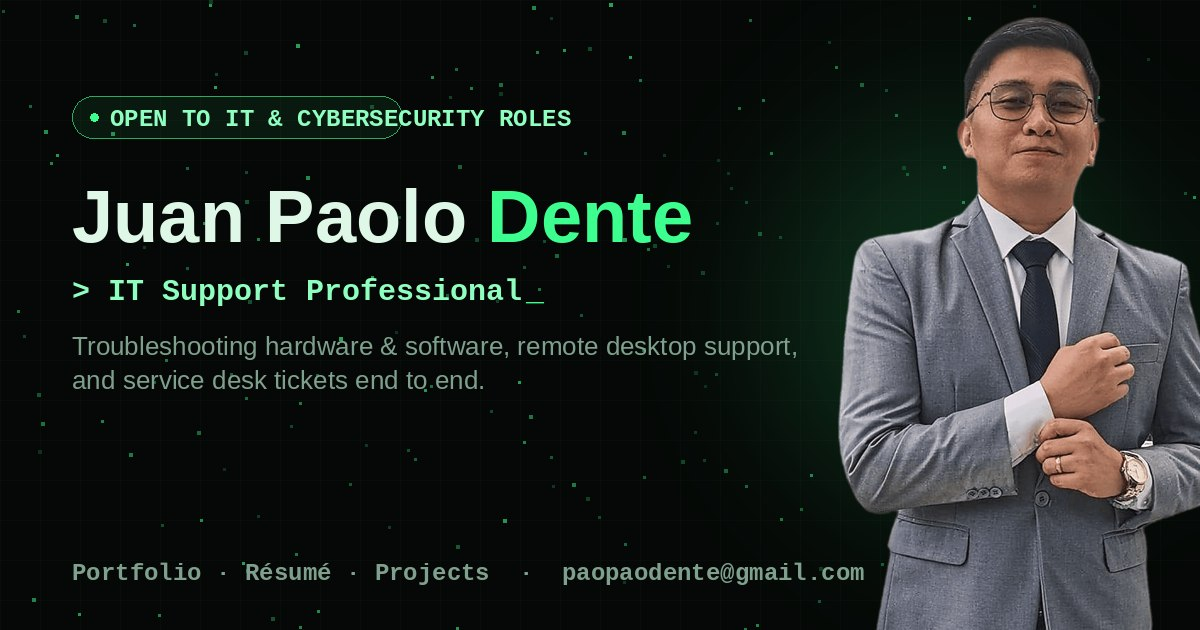
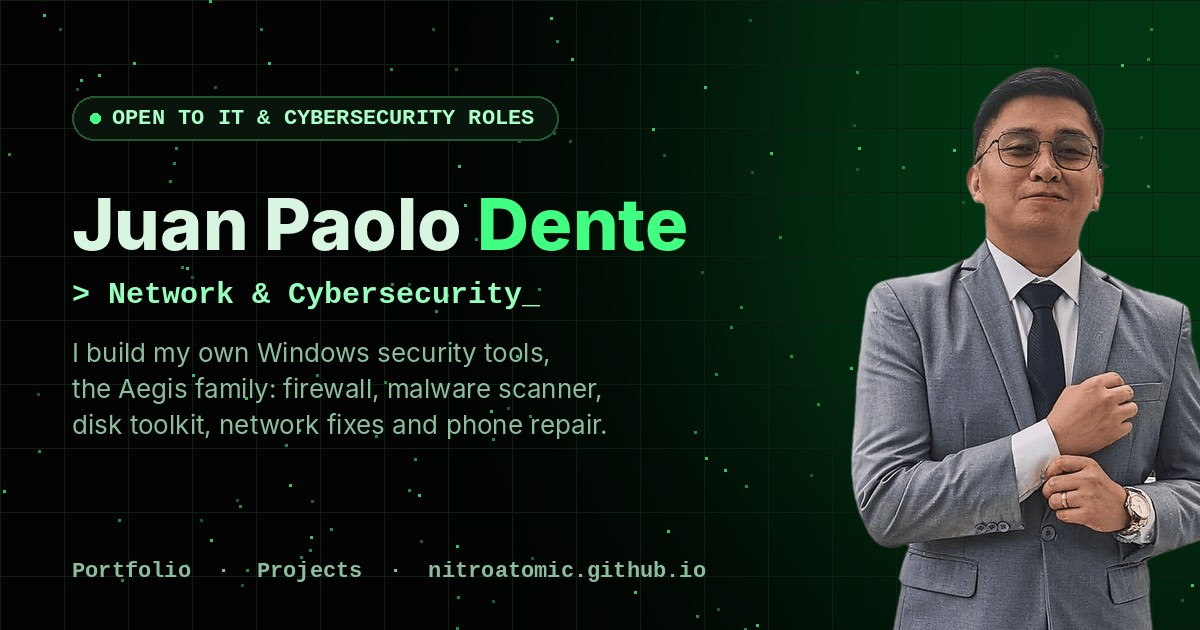
Remove AccPH, update share image, descriptions and README

diff --git a/index.html b/index.html
@@ -4,14 +4,14 @@
 <meta charset="utf-8">
 <meta name="viewport" content="width=device-width, initial-scale=1">
 <title>Juan Paolo Dente | IT Support, Networking &amp; Cybersecurity</title>
-<meta name="description" content="IT support professional specializing in troubleshooting, service desk operations and network security. BSIT (Network &amp; Cybersecurity) student at Mapúa Malayan Digital College.">
+<meta name="description" content="IT support professional moving into cybersecurity. I build my own Windows security tools, the Aegis family. BSIT (Network &amp; Cybersecurity) student at Mapúa Malayan Digital College.">
 <link rel="icon" href="assets/favicon.png">
 <link rel="canonical" href="https://nitroatomic.github.io/">
 
 <meta property="og:type" content="profile">
 <meta property="og:url" content="https://nitroatomic.github.io/">
 <meta property="og:title" content="Juan Paolo Dente | IT Support, Networking & Cybersecurity">
-<meta property="og:description" content="IT support professional specializing in troubleshooting, service desk operations and network security. BSIT (Network & Cybersecurity) student at Mapúa Malayan Digital College.">
+<meta property="og:description" content="IT support professional moving into cybersecurity. I build my own Windows security tools, the Aegis family. BSIT (Network & Cybersecurity) student at Mapúa Malayan Digital College.">
 <meta property="og:image" content="https://nitroatomic.github.io/assets/og-image.jpg">
 <meta property="og:image:width" content="1200">
 <meta property="og:image:height" content="630">
@@ -19,7 +19,7 @@
 
 <meta name="twitter:card" content="summary_large_image">
 <meta name="twitter:title" content="Juan Paolo Dente | IT Support, Networking & Cybersecurity">
-<meta name="twitter:description" content="IT support professional specializing in troubleshooting, service desk operations and network security.">
+<meta name="twitter:description" content="IT support professional moving into cybersecurity, building my own Windows security tools.">
 <meta name="twitter:image" content="https://nitroatomic.github.io/assets/og-image.jpg">
 
 <script type="application/ld+json">
@@ -28,7 +28,7 @@
   "@type": "Person",
   "name": "Juan Paolo Dente",
   "jobTitle": "IT Support Professional",
-  "description": "IT support professional specializing in troubleshooting, service desk operations and network security.",
+  "description": "IT support professional moving into cybersecurity, building my own Windows security tools.",
   "email": "mailto:paopaodente@gmail.com",
   "url": "https://nitroatomic.github.io/",
   "image": "https://nitroatomic.github.io/assets/juan.png",
@@ -776,93 +776,7 @@
       </div>
     </article>
 
-    <p class="project-group-label" style="margin-top:48px;">Additional projects</p>
-
-    <!-- ---------- AccPH ---------- -->
-    <article class="project featured reveal" data-category="software-development" style="margin-top:18px;">
-      <div class="project-body">
-        <div class="project-kicker">Personal project · Full-stack · Phases 1 to 6 of 7 built</div>
-        <h3>AccPH</h3>
-        <p class="project-tagline">Real books for a Philippine business, not a toy ledger.</p>
-        <div class="project-cols">
-          <p>
-            A Philippine payroll and accounting system, built phase by phase: authentication
-            and six-role RBAC (enforced server-side, not just hidden buttons), employee and
-            attendance management, and a deterministic payroll engine that computes SSS,
-            PhilHealth, Pag-IBIG and BIR withholding tax from versioned government rate
-            tables, never from a model's guess.
-          </p>
-          <p>
-            Approving payroll auto-posts a real double-entry journal entry into a general
-            ledger. Recording a bill or invoice does the same for Accounts Payable and
-            Receivable, and paying one posts a second, separate entry for the cash movement.
-            The Trial Balance is computed live from posted entries only, so &ldquo;Balanced?
-            Yes&rdquo; actually has to be earned.
-          </p>
-        </div>
-
-        <div class="shot-row">
-          <figure>
-            <picture><source srcset="assets/accph-login.webp" type="image/webp"><img src="assets/accph-login.jpg" alt="AccPH login screen with its logo: a gold arrow mark with the Philippine sun and stars, above the tagline AI-Assisted General Accounting: Accurate, Explainable, Trusted" width="429" height="618" style="aspect-ratio:429/618" loading="lazy"></picture>
-            <figcaption>The actual tagline: Accurate &middot; Explainable &middot; Trusted. The design principle behind every choice below.</figcaption>
-          </figure>
-          <figure>
-            <picture><source srcset="assets/accph-dashboard.webp" type="image/webp"><img src="assets/accph-dashboard.jpg" alt="AccPH dashboard showing total income, expenses, net income, a 30-day financial chart, quick actions and recent activity for Dente Trading Co." width="997" height="913" style="aspect-ratio:997/913" loading="lazy"></picture>
-            <figcaption>Compliance alerts, real activity, numbers explicitly marked "Available in Phase X" when they're not real yet</figcaption>
-          </figure>
-          <figure>
-            <picture><source srcset="assets/accph-ledger.webp" type="image/webp"><img src="assets/accph-ledger.jpg" alt="AccPH Chart of Accounts showing asset, liability, equity, revenue and expense accounts with codes and normal balances" width="892" height="817" style="aspect-ratio:892/817" loading="lazy"></picture>
-            <figcaption>The Chart of Accounts Payroll and AP/AR actually post into</figcaption>
-          </figure>
-        </div>
-        <div class="shot-row wide" style="margin-top:16px;">
-          <figure>
-            <picture><source srcset="assets/accph-copilot.webp" type="image/webp"><img src="assets/accph-copilot.jpg" alt="AccPH Accounting Copilot answering questions about unpaid bills, outstanding invoices, trial balance status, recent payroll runs and active employee count, all from real data" width="927" height="819" style="aspect-ratio:927/819" loading="lazy"></picture>
-            <figcaption>The free-tier Copilot: rule-based, not an LLM. Every answer is pulled from real, live data.</figcaption>
-          </figure>
-        </div>
-
-        <details class="tech-details">
-          <summary>Technical details: payroll engine, ledger design, engineering decisions</summary>
-          <div class="code-panel" style="margin-top:16px;">
-            <div class="code-head">payroll calculation engine &middot; a bug caught in live testing</div>
-<pre><code>// A Daily-rate employee's ₱700/day was fed straight into
-// SSS / PhilHealth / Pag-IBIG - all three are legally MONTHLY schemes.
-// A ₱700 "month" was qualifying for near-zero contributions.
-//
-// Fixed: convert to a monthly-equivalent salary first (rate × periods/month),
-// look up the correct bracket, then divide the contribution back down
-// to a per-period share. Monthly employees are unaffected (divisor = 1).</code></pre>
-          </div>
-
-          <ul class="cert-list" style="margin-top:20px;">
-            <li><span class="check">▹</span> Deterministic calculation engine: every peso comes from a versioned
-                rate table in the database, never computed by a model</li>
-            <li><span class="check">▹</span> "View Calculation" on every payroll line: names the exact rate-table row
-                and effective date that produced each number</li>
-            <li><span class="check">▹</span> Real government rates: PhilHealth, Pag-IBIG and BIR withholding cited
-                from primary sources; SSS cross-checked against a cited circular, one
-                transcription error caught and corrected before it shipped</li>
-            <li><span class="check">▹</span> Draft &rarr; Approve and Draft &rarr; Post workflows. The one
-                irreversible step is explicit and logged, everywhere</li>
-            <li><span class="check">▹</span> Free-tier AI honestly labeled as such: OCR receipt scanning with
-                per-field confidence levels, and a rule-based Copilot that says
-                "I don't know" rather than guessing</li>
-          </ul>
-        </details>
-
-        <ul class="tags" style="margin:22px 0 4px;">
-          <li>TypeScript</li>
-          <li>React</li>
-          <li>Node.js / Express</li>
-          <li>PostgreSQL</li>
-          <li>Prisma</li>
-          <li>RBAC</li>
-          <li>Double-entry Accounting</li>
-          <li>Tesseract OCR</li>
-        </ul>
-      </div>
-    </article>
+    <p class="project-group-label" style="margin-top:48px;">Outside security</p>
 
     <!-- ---------- Blessed Chuckles ---------- -->
     <article class="project featured reveal" data-category="software-development" style="margin-top:26px;">

diff --git a/README.md b/README.md
@@ -1,150 +1,16 @@
-# Juan Paolo Dente, Personal Site
+# Juan Paolo Dente, Portfolio
 
-A personal IT/cybersecurity portfolio: real WebGL matrix rain background (depth-of-field,
-katakana + binary glyphs), categorized skills/certs, filterable projects, and a branded
-404 page. No build step, no framework. Open `index.html` in a browser to preview, or serve
-the folder with any static host.
+This is the code for my portfolio site: https://nitroatomic.github.io
 
-```
-site/
-├── index.html                    ← the whole site
-├── 404.html                      ← branded 404, absolute-pathed (see Notes)
-├── robots.txt
-├── sitemap.xml
-├── LICENSE                       ← all-rights-reserved
-├── assets/
-│   ├── style.css / style.min.css  ← edit style.css, ship style.min.css (see Notes)
-│   ├── main.js   / main.min.js    ← edit main.js,   ship main.min.js   (see Notes)
-│   ├── juan.png / juan.webp       ← portrait (transparent cutout)
-│   ├── favicon.png
-│   ├── og-image.jpg               ← social share preview image
-│   ├── badge-google-ai.png
-│   ├── badge-google-cybersecurity.png
-│   ├── se-aware.jpg / .webp
-│   ├── toolkit-dashboard.jpg / .webp
-│   ├── ss-dashboard.jpg / .webp
-│   ├── ss-systools.jpg / .webp
-│   ├── accph-login.jpg / .webp
-│   ├── accph-dashboard.jpg / .webp
-│   ├── accph-ledger.jpg / .webp
-│   ├── accph-copilot.jpg / .webp
-│   ├── tropa-landing.jpg / .webp
-│   ├── tropa-feed.jpg / .webp
-│   └── tropa-profile.jpg / .webp
-└── README.md
-```
+It is a plain HTML, CSS and JavaScript site with no build step. GitHub Pages serves it straight from this repo.
 
-## What changed from your original
+## What is in here
 
-Nothing about your design was replaced — the frameless portrait, aurora drift, grid
-backdrop, cursor spotlight, scroll-progress bar, count-up stats, word-by-word hero
-headline, and self-drawing timeline are all exactly as you built them.
+- `index.html` is the whole site
+- `404.html` is the page people see when a link is wrong
+- `assets/` has the styles, scripts, screenshots and the project PDFs
+- `assets/style.css` and `assets/main.js` are the files to edit. The site loads `style.min.css` and `main.min.js`, so copy any change into those too
 
-One thing was added on top, real 3D (WebGL via Three.js, not CSS tricks):
+## License
 
-- **Matrix rain now has actual depth.** Instead of a flat 2D canvas, columns fall at
-  different distances from the camera, with fog dimming the far ones and a very slight
-  camera drift on mouse move. Same visual role, same `#matrix` element, same masking —
-  just rendered in three dimensions. If the Three.js CDN script ever fails to load, it
-  quietly falls back to your original 2D canvas rain, so the effect degrades instead of
-  breaking.
-
-This respects `prefers-reduced-motion` exactly like your existing matrix rain did — with
-that setting on, it's skipped entirely.
-
-## Putting it online for free
-
-### Option A: Netlify Drop (easiest, ~60 seconds)
-
-1. Go to **https://app.netlify.com/drop**
-2. Drag the whole `site` folder onto the page.
-3. Done. You get a live URL like `random-name-123.netlify.app`.
-4. Click **Site settings → Change site name** to make it something like `juanpaolodente.netlify.app`.
-
-To update later, drag the folder again (or connect it to GitHub as in Option B).
-
-### Option B: GitHub Pages (best if you want version history)
-
-1. Create a free account at **https://github.com** if you don't have one.
-2. Create a new repository named exactly:
-   ```
-   yourusername.github.io
-   ```
-3. Make it **Public**, then click **uploading an existing file** on the repo page.
-4. Drag in `index.html`, `README.md`, and the `assets` folder (drag the *contents* of
-   `site`, not the folder itself — `index.html` must sit at the top level of the repo).
-5. Click **Commit changes**.
-6. Go to **Settings → Pages**. Under *Branch*, pick `main` / `/ (root)` and Save.
-7. Wait 1 to 2 minutes. Your site is live at `https://yourusername.github.io`
-
----
-
-## Editing your content
-
-| What you want to change | Where |
-|---|---|
-| Your name, tagline, bio | `index.html`, the `<header class="hero">` block |
-| Job history | `index.html`, the `#experience` section |
-| Projects | `index.html`, the `#projects` section |
-| Project screenshots | replace the matching file in `assets/` |
-| Skills | `index.html`, the `<ul class="tags">` list |
-| Profile photo | replace `assets/juan.png` (transparent PNG, cropped tight) |
-| Certifications + verify links | `index.html`, the `<ul class="cert-list">` in `#skills` |
-| Email, LinkedIn | `index.html`, the `#contact` section, **and** the footer |
-| Colours | `assets/style.css`, the `:root` block at the top |
-| Matrix rain colour | `--matrix` in that same `:root` block (both the 2D and 3D rain read it) |
-| Matrix rain density / speed | `assets/main.js`, `COLUMNS` / `SPACING` in `initMatrixRain3D()` |
-
-## Notes
-
-- **Two versions of the CSS and JS.** `assets/style.css` / `assets/main.js` are the
-  readable source — edit these. `assets/style.min.css` / `assets/main.min.js` are what
-  the live pages actually load (built with `cleancss` and `terser`), so the code isn't
-  handed to every visitor in fully readable form. **If you edit the source files, you
-  need to regenerate the minified ones** or your changes won't show up on the live site:
-  ```
-  npx terser assets/main.js --compress --mangle --output assets/main.min.js
-  npx cleancss -o assets/style.min.css assets/style.css
-  ```
-  Worth being clear-eyed about what this does and doesn't do: it's a mild deterrent
-  against casual copy-pasting, not real protection — anyone can still view the full
-  HTML structure and computed CSS in DevTools regardless of minification. The `LICENSE`
-  file is what actually gives you legal standing if someone copies the site wholesale.
-
-- **Three.js** loads from `cdnjs.cloudflare.com`. For fully offline use, download
-  `three.min.js` and point the `<script src>` in `index.html` at a local copy in `assets/`.
-- **Performance:** the 3D matrix rain is pixel-ratio-capped, pauses on a background tab,
-  and falls back gracefully — WebGL failure degrades to the 2D canvas rain, and reduced
-  motion disables it entirely.
-- **Custom domain:** both Netlify and GitHub Pages support them for free (domain itself
-  runs roughly 500–900 pesos/year). Netlify: *Domain settings → Add custom domain*.
-  GitHub Pages: *Settings → Pages → Custom domain*.
-- **Fonts** load from Google Fonts and fall back to system fonts offline.
-
-## Live
-
-Deployed at **https://nitroatomic.github.io/** — `og:url`, the JSON-LD
-`"url"`, and the `og:image`/`twitter:image`/JSON-LD `"image"` paths are all set to this
-real address. It's a user/org page (served from the root, no subpath), which is also why
-`404.html`'s asset and nav links are root-relative (`/assets/...`) rather than prefixed
-with a repo name. If the site ever moves to a different URL or a project-page subpath,
-update `index.html`'s `<head>`, `404.html`'s links, `sitemap.xml` and `robots.txt` together.
-
-## What else got added
-
-- **Social share image.** `assets/og-image.jpg`, a 1200×630 branded card shown when the
-  link is pasted into LinkedIn, Slack, Messenger, etc., wired up via Open Graph and
-  Twitter Card meta tags.
-- **JSON-LD Person schema** in the `<head>` so Google can potentially show your role and
-  employer directly in search results.
-- **Images converted to WebP** with the original JPG/PNG kept as a fallback via
-  `<picture>` — roughly halves the load weight of the screenshots and portrait with no
-  visible quality difference. If you add a new screenshot later, generate a matching
-  `.webp` (any online converter or `cwebp` works) if you want the same treatment, or just
-  add a plain `<img>` — it'll still work, just slightly heavier.
-- **Branded 404 page, robots.txt, sitemap.xml** — see the file tree above.
-- **All-rights-reserved LICENSE**, and the live site now loads minified CSS/JS instead of
-  the readable source — see the note on that above, including the rebuild command.
-
-Note: there is no résumé download on this site by request — contact is Email and
-LinkedIn only, both in the Contact section and the footer.
+All rights reserved. See `LICENSE`.
